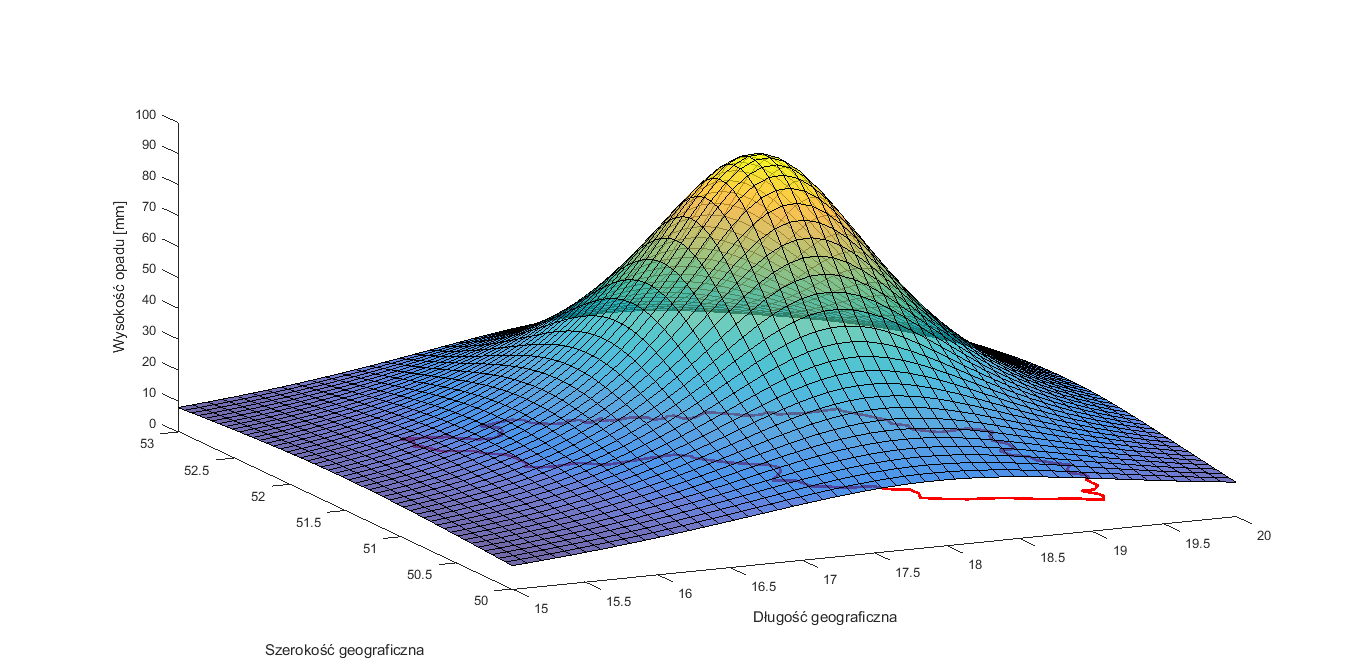
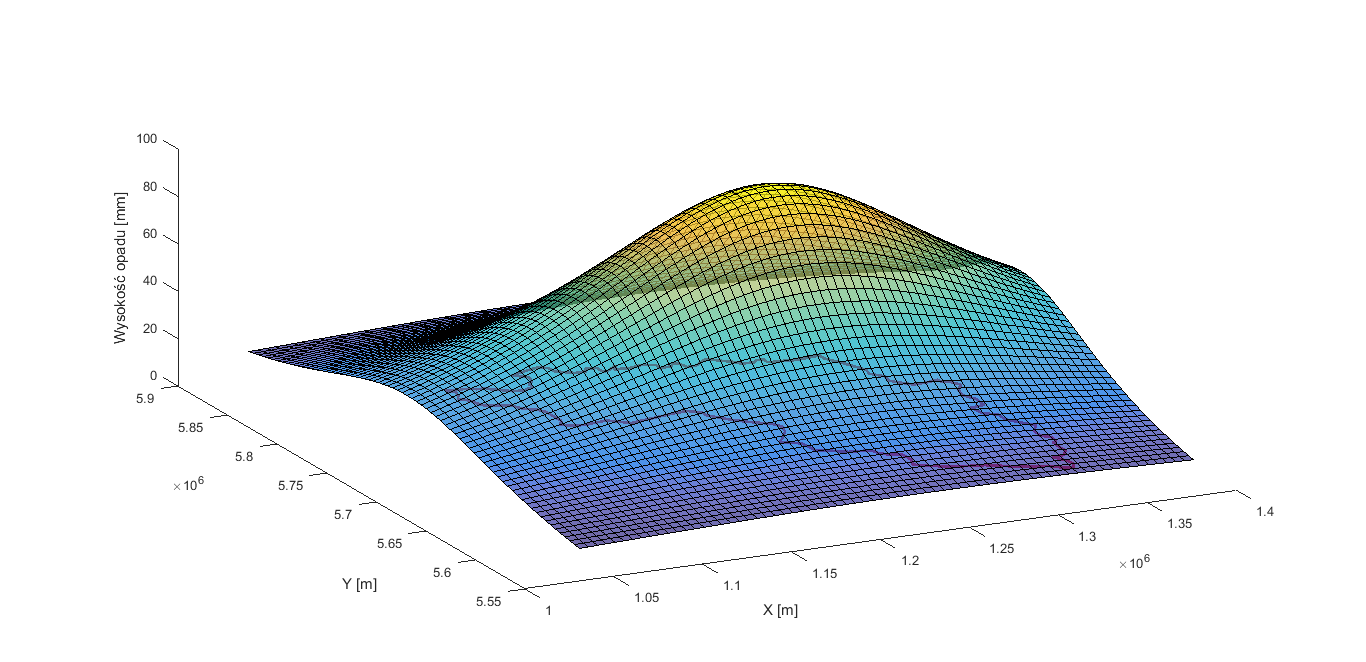
Zmienione oświadczenie latex, opis funkcji opadu.

diff --git a/latex/rozdzialy/implementacja.tex b/latex/rozdzialy/implementacja.tex
@@ -23,32 +23,50 @@ gdzie
 \end{description}
 
 \section{Wielkość opadu}
-Z~powodu braku dostępu do rzeczywistych danych meteorologicznych oraz hydrologicznych, co zostało opisane w~rozdziale~\ref{cha:odczyt_danych}, wykluczona została możliwość racjonalnej i~miarodajnej analizy pomiarów wraz z~określeniem korelacji opadu i~wysokości poziomu wody rzeki. Wobec powyższego, zdecydowano o~zastosowaniu danych symulowanych. Stworzone zostały funkcje generujące pomiar opadu we wskazanym punkcie. Przygotowane zostały dwa warianty - opad elipsoidalny oparty na wzorze~\ref{eq:opad_elipsa} oraz zdefiniowany funkcją wymierną~\ref{eq:opad_wymierny}.
+Z~powodu braku dostępu do rzeczywistych danych meteorologicznych oraz hydrologicznych, co zostało opisane w~rozdziale~\ref{cha:odczyt_danych}, wykluczona została możliwość racjonalnej i~miarodajnej analizy pomiarów wraz z~określeniem korelacji opadu i~wysokości poziomu wody rzeki. Wobec powyższego, zdecydowano o~zastosowaniu danych symulowanych. Stworzone zostały funkcje generujące pomiar opadu we wskazanym punkcie. Przygotowane zostały dwa warianty - opad paraboliczny oparty na wzorze~\ref{eq:opad_parabola} oraz zdefiniowany funkcją wymierną~\ref{eq:opad_wymierny}.
+
+
+Pierwszy z~nich jest funkcją wklęsłą. Należy zaznaczyć, iż zastosowanie jej do generowania wartości opadu wymaga spłaszczenia, gdyż interesujące są jedynie wartości większe lub równe 0. Dla tego przypadku spodziewa się wyniku z~niedomiarem w~stosunku do wartości rzeczywistej. Drugi jest bardziej zróżnicowany. Posiada obszary wklęsłe i wypukłe. Spodziewany wynik powinien być bardziej dokładny. Zastosowanie wyżej opisanych metod pozwoli na weryfikację działania programu w~odmiennych warunkach.
 
 \begin{equation}
-A = 1%z = h - \alpha * (x - x_0)^2 - \betha * (y - y_0)^2;
-\label{eq:opad_elipsa}
+z = h \cdot (1 - (\alpha (x - x_0)^2 - \beta (y - y_0)^2) );
+\label{eq:opad_parabola}
 \end{equation}
+gdzie
+\begin{description}[leftmargin=3cm, itemsep=0cm, labelsep=0cm]
+	\item[$\alpha, \beta$] współczynniki modyfikujące kształt opadu,
+	\item[$x_0, y_0$] współrzędne środka płaszczyzny,
+	\item[$h$] maksymalna wartość opadu
+\end{description}
 
 \begin{equation}
-z = MAX\_PRECIP * \frac{-1}{h+(x-x_0)^2 + \alpha * (y-y_0)^2}
+z = h \cdot \frac{1}{1 + \alpha (x-x_0)^2 + \beta (y-y_0)^2}
 \label{eq:opad_wymierny}
 \end{equation}
+gdzie
+\begin{description}[leftmargin=3cm, itemsep=0cm, labelsep=0cm]
+	\item[$\alpha, \beta$] współczynniki modyfikujące kształt opadu,
+	\item[$x_0, y_0$] współrzędne środka płaszczyzny,
+	\item[$h$] maksymalna wartość opadu
+\end{description}
 
-Zdefiniowano również funkcję, która ma za zadanie wyznaczenie objętości rzeczywistego opadu we wskazanym trójkącie w~oparciu o~zadany wariant opadu. Tym sposobem zostało rozwiązane zagadnienie weryfikacji dokładności działania algorytmu opisanego w~podrozdziale~\ref{sec:zastosowana_metoda}. Uzyskiwane wyniki porównywane są z~danymi pseudorzeczywistymi.
+Ustalona na potrzeby przeprowadzonych testów wielkość maksymalnego opadu wynosi 100 milimetrów. Dla opadu parabolicznego przyjęto współczynniki $\alpha$ i $\beta$ o wartościach odpowiednio \num{50e-12} oraz \num{70e-12}, natomiast dla drugiego wariantu opadu \num{50e-12} i~\num{200e-12}. 
+
+
+Zdefiniowano również funkcję, która ma za zadanie wyznaczenie objętości rzeczywistego opadu we wskazanym trójkącie w~oparciu o~zadany wariant opadu. Zdecydowano się na numeryczne obliczanie całki podwójnej obszaru ograniczonego odcinkami trójkąta. Zrezygnowano z~podejścia analitycznego, ponieważ dla opadu parabolicznego z~użyciem sklejenia taki sposób jest niewygodny (konieczne byłoby zdefiniowanie funkcji ograniczającej obszar całkowania). Ponadto, w~przypadku niektórych testowanych funkcji (jak np. $e^{(x-x_0)^2 - (y-y_0)^2}$) nie ma możliwości analitycznego obliczenia całki\footnote{Kształt tej funkcji jest zbliżony do tej zdefiniowanej wzorem~\ref{eq:opad_wymierny}, dlatego pominięto go w~testach}, wobec tego użyta metoda zachowuje uniwersalność. Tym sposobem zostało rozwiązane zagadnienie weryfikacji dokładności działania algorytmu opisanego w~podrozdziale~\ref{sec:zastosowana_metoda}. Uzyskiwane wyniki porównywane są z~danymi pseudorzeczywistymi.
 
 \begin{figure}[ht]
 \centering
 	\begin{subfigure}{.5\textwidth}
 		\centering
-		\includegraphics[width=1\linewidth]{chmura_elipsoidalna_1}
-		\caption{Wykres zastosowanej funkcji elipsoidalnej}
+		\includegraphics[width=1\linewidth]{chmura_paraboloidalna_1}
+		\caption{Wykres zastosowanej funkcji parabolicznej}
 		\label{fig:elipsa_3d}
 	\end{subfigure}%	
 	\begin{subfigure}{0.5\textwidth}
 		\centering
-		\includegraphics[width=1\linewidth]{chmura_elipsoidalna_2}
-		\caption{Rzut wykresu zastosowanej funkcji elipsoidalnej}
+		\includegraphics[width=1\linewidth]{chmura_paraboloidalna_2}
+		\caption{Rzut wykresu zastosowanej funkcji parabolicznej}
 		\label{fig:elipsa_2d}
 	\end{subfigure}	
 	

diff --git a/latex/rozdzialy/wyniki.tex b/latex/rozdzialy/wyniki.tex
@@ -4,16 +4,18 @@ Rozdział ten zawiera analizę wyników opisanego w~części~\ref{cha:implementa
 
 
 \section{Wielkość błędu}
+asdasd
+
 \section{Warianty opadu}
 
 \section{Analiza wrażliwości na posterunki opadowe}
 W~tej części przeprowadzono wpływ wyłączenia wskazanego posterunku opadowego (ograniczono się do wybory punktów zawartych w granicach wskazanej zlewni) na wynik działania omawianej metody. Pozwala to znaleźć odpowiedź na pytanie: \textit{Czy sieć istniejących posterunków opadowych jest wystarczająca?}, a~to pomoże podejmować decyzje o~zwiększaniu ilości owych posterunków bądź przeniesieniu w~inną lokalizację.
 
-Rysunek~\ref{fig:identyfikatory} przedstawia identyfikatory wykluczanych z~analizy punktów, natomiast wiersze tabeli~<i tu numer> prezentują rezultat działania programu bez zadanego punktu.
+Rysunek~\ref{fig:identyfikatory} przedstawia identyfikatory wykluczanych z~analizy punktów, natomiast wiersze tabeli prezentują rezultat działania programu bez zadanego punktu.
 
 \begin{figure}[ht]
 	\centering
-	\includegraphics[width=1\linewidth]{identyfikatory_punktów}
+	\includegraphics[width=1\linewidth]{identyfikatory_punktow}
 	\label{fig:identyfikatory}
 	\caption{Identyfikatory posterunków wewnątrz zlewni}
 \end{figure}

diff --git a/latex/main.tex b/latex/main.tex
@@ -120,6 +120,7 @@
 \usepackage{booktabs}
 \usepackage{makecell}
 \usepackage[flushleft]{threeparttable}
+\usepackage{siunitx}
 
 % defines the X column to use m (\parbox[c]) instead of p (`parbox[t]`)
 \newcolumntype{C}[1]{>{\hsize=#1\hsize\centering\arraybackslash}X}
